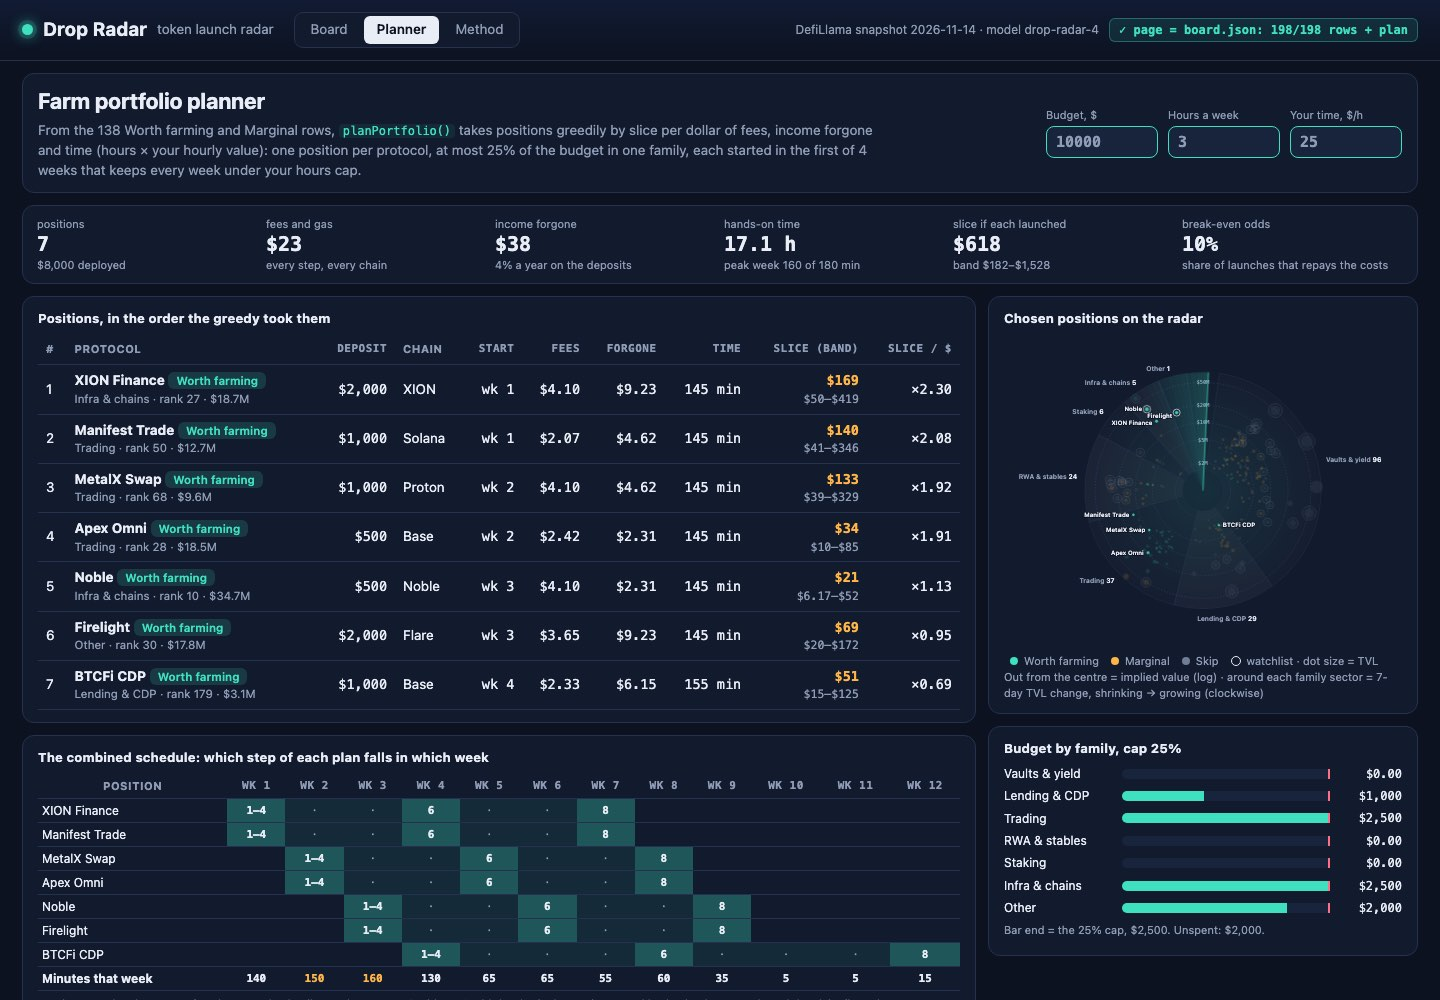
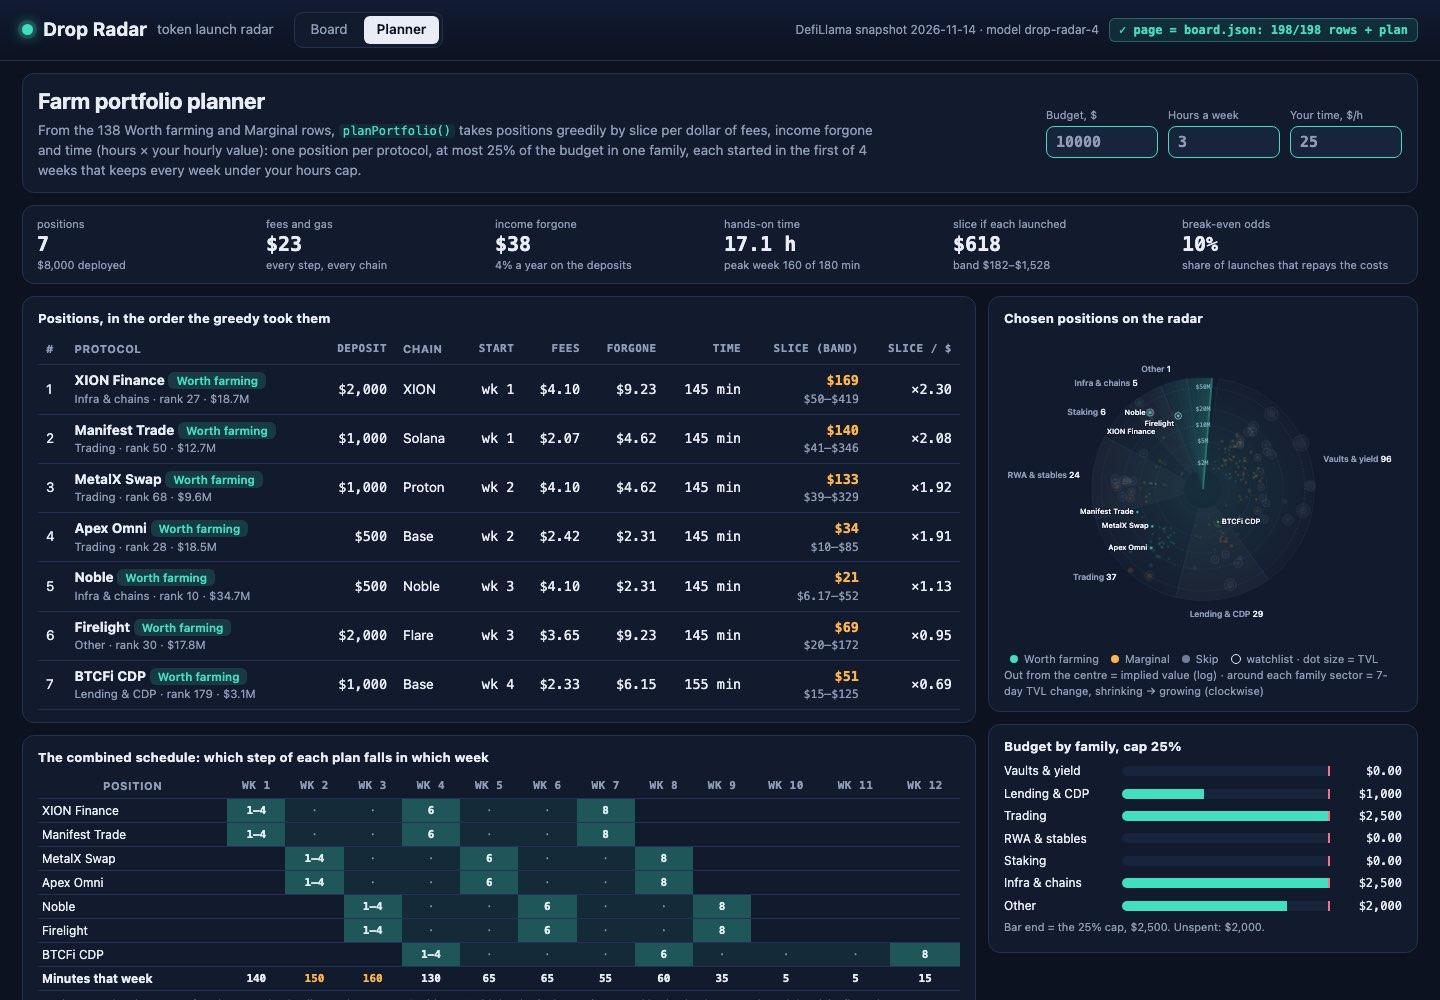
v4 polish: radar labels never collide, peers drawn from the family's middle multiples, whole source inside the dossier cap

diff --git a/dashboard/radar.js b/dashboard/radar.js
@@ -1,7 +1,5 @@
-// Drop Radar page: recomputes the whole board in the browser with model.js (DropRadar.buildRadar on the
-// sealed snapshot in ../data.js), checks it against board.json row by row, and renders the board with its
-// radar sweep, a detail view per protocol, the farm portfolio planner and the method. State lives in the
-// URL hash, so every view is linkable.
+// Drop Radar page: reruns model.js on the sealed snapshot (../data.js), checks it against board.json row by
+// row, and renders the board, its radar sweep, a detail view per protocol and the planner. State: the URL hash.
 (function () {
   'use strict';
   var M = window.DropRadar, R = M.buildRadar(window.SNAPSHOT), B = window.BOARD;
@@ -45,7 +43,7 @@
     app.querySelectorAll('[data-fam]').forEach(function (el) { el.onclick = function () { go({ view: 'board', fam: S.fam === el.dataset.fam ? '' : el.dataset.fam }); }; });
   }
 
-  // ------------------------------------------------------------ the radar sweep
+  // ---- the radar sweep
   // Angle: family sector (sized by its row count); inside a sector, the 7-day TVL change, shrinking to growing.
   // Radius: log implied value. Dot area: TVL. Colour: farm verdict. Ring: on the watchlist.
   function sweep(hl) {
@@ -55,15 +53,17 @@
     var rad = function (v) { return r0 + (L(v) - L(vmin)) / (L(vmax) - L(vmin)) * (r1 - r0); };
     var pt = function (a, rr) { return (c + rr * Math.sin(a)).toFixed(1) + ',' + (c - rr * Math.cos(a)).toFixed(1); };
     var fams = M.FAMILIES.map(function (f) { return { f: f, n: R.rows.filter(function (r) { return r.family === f; }).length }; }).filter(function (x) { return x.n; });
-    var tot = fams.reduce(function (s, x) { return s + x.n + 10; }, 0), a = gap / 2, sec = {};
-    var s = '<svg viewBox="-70 -6 ' + (W + 140) + ' ' + (W + 12) + '" class="sweep" role="img" aria-label="Radar of every protocol that records no token"><defs><radialGradient id="glow"><stop offset="0" stop-color="#3fe0c0" stop-opacity=".10"/><stop offset="1" stop-color="#3fe0c0" stop-opacity="0"/></radialGradient></defs>';
+    var tot = fams.reduce(function (s, x) { return s + x.n + 10; }, 0), a = gap / 2, sec = {}, famBox = [];
+    var s = '<svg viewBox="-90 -20 ' + (W + 180) + ' ' + (W + 40) + '" class="sweep" role="img" aria-label="Radar of every protocol that records no token"><defs><radialGradient id="glow"><stop offset="0" stop-color="#3fe0c0" stop-opacity=".10"/><stop offset="1" stop-color="#3fe0c0" stop-opacity="0"/></radialGradient></defs>';
     s += '<circle cx="' + c + '" cy="' + c + '" r="' + r1 + '" fill="url(#glow)"/>';
     fams.forEach(function (x, i) {
       var span = (2 * Math.PI - gap) * (x.n + 10) / tot, a1 = a + span, mid = a + span / 2;
       sec[x.f] = [a, a1];
       s += '<path class="sec' + (i % 2 ? ' alt' : '') + (S.fam === x.f ? ' on' : '') + '" d="M' + pt(a, r0) + 'L' + pt(a, r1) + 'A' + r1 + ',' + r1 + ' 0 ' + (span > Math.PI ? 1 : 0) + ' 1 ' + pt(a1, r1) + 'L' + pt(a1, r0) + 'A' + r0 + ',' + r0 + ' 0 ' + (span > Math.PI ? 1 : 0) + ' 0 ' + pt(a, r0) + 'Z"/>';
-      var lx = c + (r1 + 14) * Math.sin(mid), ly = c - (r1 + 14) * Math.cos(mid), anc = Math.abs(Math.sin(mid)) < 0.2 ? 'middle' : Math.sin(mid) > 0 ? 'start' : 'end';
-      s += '<text class="fam" data-fam="' + esc(x.f) + '" x="' + lx.toFixed(1) + '" y="' + (ly + 4 + (Math.cos(mid) < -0.9 ? 6 : 0)).toFixed(1) + '" text-anchor="' + anc + '">' + esc(x.f) + ' <tspan>' + x.n + '</tspan></text>';
+      var lx = c + (r1 + 22) * Math.sin(mid), ly = c - (r1 + 22) * Math.cos(mid), anc = Math.abs(Math.sin(mid)) < 0.2 ? 'middle' : Math.sin(mid) > 0 ? 'start' : 'end';
+      var fy = ly + 4 + (Math.cos(mid) < -0.9 ? 6 : 0), fw = (x.f.length + 4) * 8.2;
+      famBox.push({ x0: anc === 'start' ? lx : anc === 'end' ? lx - fw : lx - fw / 2, x1: anc === 'start' ? lx + fw : anc === 'end' ? lx : lx + fw / 2, y: fy });
+      s += '<text class="fam" data-fam="' + esc(x.f) + '" x="' + lx.toFixed(1) + '" y="' + fy.toFixed(1) + '" text-anchor="' + anc + '">' + esc(x.f) + ' <tspan>' + x.n + '</tspan></text>';
       a = a1;
     });
     [2e6, 5e6, 1e7, 2e7, 5e7].forEach(function (v) {
@@ -83,7 +83,12 @@
     });
     labels.sort(function (p, q) { return p.y - q.y; }).forEach(function (l, i, all) {
       var right = l.x >= c, ty = l.y + 3.5;
-      for (var j = 0; j < i; j++) if (Math.abs(all[j].ty - ty) < 11 && (all[j].x >= c) === right) ty = all[j].ty + 11;
+      var w = l.r.name.length * 7.5, lx0 = right ? l.x + l.d + 4 : l.x - l.d - 4 - w, lx1 = lx0 + w;
+      var hit = function (y) {
+        for (var j = 0; j < i; j++) if ((all[j].x >= c) === right && Math.abs(all[j].ty - y) < 14) return true;
+        return famBox.some(function (f) { return Math.abs(f.y - y) < 15 && lx1 > f.x0 && lx0 < f.x1; });
+      };
+      for (var k = 1; hit(ty) && k < 40; k++) ty = l.y + 3.5 + (k % 2 ? 1 : -1) * Math.ceil(k / 2) * 14;
       l.ty = ty;
       s += '<text class="lab" x="' + (l.x + (right ? l.d + 4 : -l.d - 4)).toFixed(1) + '" y="' + ty.toFixed(1) + '" text-anchor="' + (right ? 'start' : 'end') + '">' + (hl ? '' : l.r.rank + ' ') + esc(l.r.name.length > 18 ? l.r.name.slice(0, 17) + '…' : l.r.name) + '</text>';
     });
@@ -91,7 +96,7 @@
       '<div class="legend">Out from the centre = implied value (log) &middot; around each family sector = 7-day TVL change, shrinking &rarr; growing (clockwise)</div>';
   }
 
-  // ------------------------------------------------------------ the board
+  // ---- the board
   function kpis() {
     var w = R.rows.filter(function (r) { return r.watch; }).length, worth = R.rows.filter(function (r) { return r.plan.verdict === 'Worth farming'; }).length;
     var o = R.oos;
@@ -109,7 +114,7 @@
     var c = R.fit.curve, o = R.oos;
     return '<section class="card"><h3>How a value is built <code>buildRadar()</code></h3><ol class="how">' +
       '<li><b class="k-tvl">Size curve</b> on <b>TVL</b> <code>fitCurve()</code>: log10 value = ' + c.a.toFixed(2) + ' + ' + c.b.toFixed(3) + ' &times; log10(TVL / $100M), least squares on the ' + R.traded.length + ' protocols whose token trades</li>' +
-      '<li><b>&times; family tilt</b> <code>fitTilts()</code>: median residual of the family\'s traded peers, shrunk with ' + R.cfg.shrink_k + ' pseudo-peers</li>' +
+      '<li><b>&times; family tilt</b> <code>fitTilts()</code>: median residual of the family\'s traded peers, shrunk with ' + R.cfg.shrink_k + ' pseudo-peers: ' + M.FAMILIES.map(function (f) { return esc(f) + ' &times;' + Math.pow(10, R.fit.tilts[f].log).toFixed(2) + ' (' + R.fit.tilts[f].peers + ')'; }).join(', ') + '</li>' +
       '<li><b class="k-g">&times; momentum</b> on <b>7-day growth</b>: 1 + ' + R.cfg.growth_weight + ' &times; 7-day TVL change, held to ' + R.cfg.growth_lo + '%..+' + R.cfg.growth_hi + '%</li>' +
       '<li><b class="k-d">&times; seasoning</b> on <b>days with no token</b>: ' + R.cfg.season_lo + ' + ' + R.cfg.season_span + ' &times; days tracked / ' + R.cfg.season_days + ' (unknown: ' + R.cfg.season_unknown + ')</li></ol>' +
       '<p class="mute">Out of sample <code>outOfSample()</code>: each of the ' + o.n + ' traded tokens refit without itself misses by a median <b>&times;' + o.median_miss.toFixed(2) + '</b> (one flat mcap/TVL multiple: &times;' + o.flat_miss.toFixed(2) + '); ' + Math.round(o.within3 * 100) + '% within 3&times;. Band: P25&ndash;P75 of residuals; rank range: P10&ndash;P90 of ' + R.cfg.boot + ' seeded refits.</p></section>';
@@ -190,7 +195,7 @@
     app.querySelector('#anch').onchange = function (e) { go({ anchors: e.target.checked ? '1' : '' }); };
   }
 
-  // ------------------------------------------------------------ the portfolio planner
+  // ---- the portfolio planner
   var span = function (a) { return a.length > 1 ? a[0] + '&ndash;' + a[a.length - 1] : String(a[0]); };
 
   function planner() {
@@ -222,7 +227,7 @@
     app.querySelectorAll('[data-in]').forEach(function (el) { el.onchange = function () { var x = {}; x[el.dataset.in] = el.value > 0 ? String(+el.value) : ''; go(x); }; });
   }
 
-  // ------------------------------------------------------------ one protocol
+  // ---- one protocol
   function timeline(plan) {
     var W = 540, days = plan.weeks * 7, x = function (d) { return 22 + d / days * (W - 50); }, last = -1e9;
     var s = '<svg viewBox="0 0 ' + W + ' 66" class="tl"><line x1="22" x2="' + (W - 28) + '" y1="18" y2="18"/>';
@@ -255,34 +260,10 @@
       '<ul class="rules"><li>One wallet, your own funds; never split one position across wallets.</li><li>Claim only through the domain bookmarked on day 0.</li><li>A launch is not promised: this is cost arithmetic and the model\'s claim.</li></ul></section></div>';
   }
 
-  // ------------------------------------------------------------ method
-  function scatter() {
-    var W = 330, H = 170, x0 = 6, x1 = 11, y0 = 3, y1 = 11;
-    var px = function (v) { return 30 + (L(v) - x0) / (x1 - x0) * (W - 40); };
-    var py = function (v) { return H - 20 - (L(v) - y0) / (y1 - y0) * (H - 30); };
-    var s = '<svg viewBox="0 0 ' + W + ' ' + H + '" role="img" aria-label="Market cap or implied value against TVL">';
-    [7, 8, 9, 10].forEach(function (e) { var x = px(Math.pow(10, e)); s += '<line class="grid" x1="' + x + '" x2="' + x + '" y1="8" y2="' + (H - 20) + '"/><text class="ax" x="' + x + '" y="' + (H - 6) + '">' + usd(Math.pow(10, e)) + '</text>'; });
-    [5, 7, 9].forEach(function (e) { var y = py(Math.pow(10, e)); s += '<line class="grid" x1="30" x2="' + (W - 10) + '" y1="' + y + '" y2="' + y + '"/><text class="ax" x="2" y="' + (y + 3) + '">' + usd(Math.pow(10, e)) + '</text>'; });
-    R.traded.forEach(function (p) { s += '<circle class="tr" cx="' + px(p.tvl).toFixed(1) + '" cy="' + py(Math.max(p.mcap, 1e3)).toFixed(1) + '" r="2.2"/>'; });
-    R.rows.forEach(function (r) { s += '<rect class="pre" x="' + (px(r.tvl) - 2).toFixed(1) + '" y="' + (py(r.implied) - 2).toFixed(1) + '" width="4" height="4"/>'; });
-    var c = R.fit.curve, f = function (t) { return Math.pow(10, c.a + c.b * L(t / 1e8)); };
-    s += '<line class="fitl" x1="' + px(1e7) + '" y1="' + py(f(1e7)) + '" x2="' + px(1e11) + '" y2="' + py(f(1e11)) + '"/></svg>';
-    return s + '<div class="legend"><i class="dot-tr"></i> trades (mcap) <i class="dot-pre"></i> records no token, at implied value <i class="dot-fit"></i> fitted size curve</div>';
-  }
-
-  function method() {
-    var t = R.fit.tilts;
-    app.innerHTML = '<section class="cards">' + howCard() + '<div class="card chart"><h3>Market cap or implied value vs TVL</h3>' + scatter() + '</div>' +
-      '<div class="card"><h3>Family tilts <code>fitTilts()</code></h3><table class="mini"><thead><tr><th>Family</th><th class="num">Traded peers</th><th class="num">Tilt</th><th class="num">Ranked</th></tr></thead><tbody>' +
-      M.FAMILIES.map(function (fm) { return '<tr><td>' + esc(fm) + '</td><td class="num">' + t[fm].peers + '</td><td class="num">&times;' + Math.pow(10, t[fm].log).toFixed(2) + '</td><td class="num">' + R.rows.filter(function (r) { return r.family === fm; }).length + '</td></tr>'; }).join('') + '</tbody></table></div></section>' +
-      '<section class="card"><h3>Model ' + esc(R.cfg.version) + ': one function, every row</h3><p>This page ran <code>DropRadar.buildRadar()</code> from model.js on the sealed snapshot and matched board.json row by row (' + matched + '/' + B.rows.length + '), and <code>planPortfolio()</code> against its default plan. No protocol name appears in the model. The ' + R.traded.length + ' protocols with a market cap price the curve and are never ranked; below the floor the house rule (all but the TVL floor) sets aside ' + R.set_aside + ' wrapped, staked, bridged and exchange products.</p>' +
-      '<p><b>Farm verdict.</b> Worth farming when break-even odds &le; ' + Math.round(R.cfg.worth * 100) + '%, Marginal &le; ' + Math.round(R.cfg.marginal * 100) + '%, else Skip. Costs: a per-chain gas table, $1 per bridge leg, ' + Math.round(R.cfg.tbill * 100) + '% a year forgone; deposit $2,000 ($1,000 under $20M TVL). <b>Portfolio.</b> Deposits scale with the budget, capped at ' + M.PF.tvl_cap * 100 + '% of a protocol\'s TVL; a part-filled position is kept only while its own break-even odds stay &le; ' + Math.round(R.cfg.marginal * 100) + '%.</p></section>';
-  }
-
   function render() {
     document.querySelectorAll('.tabs button').forEach(function (b) { b.setAttribute('aria-selected', String(b.dataset.view === S.view && !S.p)); b.onclick = function () { go({ view: b.dataset.view, p: '' }); }; });
     var r = S.p && bySlug[S.p];
-    if (r) detail(r); else if (S.view === 'method') method(); else if (S.view === 'plan') planner(); else board();
+    if (r) detail(r); else if (S.view === 'plan') planner(); else board();
     var back = app.querySelector('.back'); if (back) back.onclick = function (e) { e.preventDefault(); go({ p: '' }); };
     window.scrollTo(0, 0);
   }

diff --git a/dashboard/style.css b/dashboard/style.css
@@ -35,20 +35,15 @@ main{padding:12px 22px 18px}
 .card h3{margin:0 0 7px;font-size:13px;letter-spacing:.2px}
 .card p{margin:5px 0}
 ol.how{margin:0;padding-left:18px} ol.how li{margin:3px 0}
-.chart svg{width:100%;height:auto;display:block}
-svg .grid{stroke:var(--line);stroke-width:.6} svg .ax{fill:var(--mute);font:8px var(--mono)}
-svg .tr{fill:#7d8aa3;opacity:.75} svg .pre{fill:var(--amber)} svg .fitl{stroke:var(--teal);stroke-width:1.6}
 .legend{color:var(--mute);font-size:11px;display:flex;gap:6px;align-items:center;flex-wrap:wrap}
 .legend i{display:inline-block;width:8px;height:8px;border-radius:50%;margin-left:6px}
 .legend i.v-worth{background:var(--teal)} .legend i.v-marg{background:var(--amber)} .legend i.v-skip{background:#6f7d96} .legend i.ringk{border:1.5px solid var(--text);width:10px;height:10px}
-.dot-tr{background:#7d8aa3} .dot-pre{background:var(--amber);border-radius:1px !important} .dot-fit{background:var(--teal);height:2px !important;width:14px !important;border-radius:0 !important}
 .filters{display:flex;flex-wrap:wrap;gap:7px;align-items:center;margin:6px 0}
 .chip{border:1px solid var(--line);background:var(--panel);border-radius:999px;padding:4px 11px;cursor:pointer;color:var(--mute);font-size:12.5px}
 .chip[aria-pressed="true"]{background:var(--text);color:var(--ink);border-color:var(--text);font-weight:600}
 .filters input[type=search],.filters select{background:var(--panel);border:1px solid var(--line);border-radius:8px;padding:4px 10px}
 .filters input[type=search]{width:190px}
 .tog{color:var(--mute);font-size:12.5px}
-.sep{width:1px;height:20px;background:var(--line);margin:0 4px}
 .count{margin:6px 0 8px}
 table{width:100%;border-collapse:collapse}
 th{text-align:left;color:var(--mute);font-size:11px;text-transform:uppercase;letter-spacing:.5px;padding:7px 8px;border-bottom:1px solid var(--text);cursor:pointer;white-space:nowrap}
@@ -103,15 +98,15 @@ tr.grp th:nth-child(2){border-bottom:2px solid var(--line)}
 svg.sweep{width:100%;height:auto;display:block;margin:-4px 0 2px}
 .sweep .sec{fill:rgba(255,255,255,.015);stroke:var(--line);stroke-width:.8} .sweep .sec.alt{fill:rgba(255,255,255,.04)} .sweep .sec.on{fill:rgba(63,224,192,.12)}
 .sweep .ring{fill:none;stroke:#33456a;stroke-dasharray:2 3}
-.sweep .rl{fill:var(--mute);font:9px var(--mono);text-anchor:middle}
-.sweep .fam{fill:var(--mute);font:600 11px var(--sans);cursor:pointer} .sweep .fam tspan{fill:var(--text)}
+.sweep .rl{fill:var(--mute);font:11px var(--mono);text-anchor:middle}
+.sweep .fam{fill:var(--mute);font:600 15px var(--sans);cursor:pointer} .sweep .fam tspan{fill:var(--text)}
 .beam{transform-origin:260px 260px;animation:spin 9s linear infinite}
 .beam path{fill:var(--teal)} .beam line{stroke:var(--teal);stroke-width:1.2}
 @keyframes spin{to{transform:rotate(360deg)} }
 .dot{cursor:pointer} .dot.v-skip{color:#6f7d96} .dot.dim{opacity:.16}
 .dot circle{fill:currentColor;fill-opacity:.85;stroke:var(--ink);stroke-width:.6} .dot:hover circle{stroke:#fff}
 .dot .wl{fill:none;stroke:var(--text);stroke-width:1.1}
-.sweep .lab{fill:var(--text);font:600 10px var(--sans);paint-order:stroke;stroke:var(--ink);stroke-width:3px;pointer-events:none}
+.sweep .lab{fill:var(--text);font:600 13px var(--sans);paint-order:stroke;stroke:var(--ink);stroke-width:3px;pointer-events:none}
 .ptot{display:grid;grid-template-columns:repeat(3, 1fr);gap:8px;margin:6px 0}
 .ptot span,.ptot small,.totals small{display:block;color:var(--mute);font-size:11px} .ptot b{font:700 17px var(--mono)}
 ol.picks{margin:6px 0;padding:0;list-style:none}

diff --git a/dashboard/model.js b/dashboard/model.js
@@ -101,14 +101,14 @@
     'Trading': { verb: 'Deposit {D} on {N} on {C} and trade it in 5 small round trips at 1x (fees under 0.3% of the deposit)', tx: 6, weeks: 6, mid: 'make 3 more round trips and, if the app has one, add {Q} to its liquidity vault' },
     'RWA & stables': { verb: 'Subscribe {D} to {N}\'s main product on {C} after checking its minimum ticket and redemption window', tx: 2, weeks: 8, mid: 're-read the product page and confirm the position accrues; redeem nothing early' },
     'Staking': { verb: 'Stake {D} through {N}\'s own interface on {C}, choosing the option with no lock-up or the shortest one', tx: 2, weeks: 8, mid: 'claim or restake any reward once, a second dated action' },
-    'Infra & chains': { verb: 'Bridge {D} onto {N} ({C}) and use 3 of its own apps: a swap, a lend and a liquidity position', tx: 6, weeks: 6, mid: 'repeat one swap and one deposit so activity spans more than one week' },
+    'Infra & chains': { verb: 'Bridge {D} onto {N}{OC} and use 3 of its own apps: a swap, a lend and a liquidity position', tx: 6, weeks: 6, mid: 'repeat one swap and one deposit so activity spans more than one week' },
     'Other': { verb: 'Use {N}\'s core product on {C} with {D}: one deposit or action now', tx: 3, weeks: 6, mid: 'repeat the core action once so the address shows two dates' },
   };
 
   function farmPlan(r) {
     var D = r.tvl < 20e6 ? 1000 : 2000;
     var cc = cheapestChain(r.chains), g = cc.gas, pb = PLAY[r.family], W = pb.weeks;
-    var fill = function (s) { return s.replace(/\{D\}/g, money(D)).replace(/\{Q\}/g, money(D / 4)).replace(/\{N\}/g, r.name).replace(/\{C\}/g, cc.chain); };
+    var fill = function (s) { return s.replace(/\{OC\}/g, cc.chain === r.name ? '' : ' (' + cc.chain + ')').replace(/\{D\}/g, money(D)).replace(/\{Q\}/g, money(D / 4)).replace(/\{N\}/g, r.name).replace(/\{C\}/g, cc.chain); };
     var stop = Math.round(r.tvl * (1 - Math.max(0.1, Math.abs(r.ch7 || 0) * 2 / 100)));
     var kyc = r.family === 'RWA & stables', d1 = kyc ? 3 : 1;
     // at: the day a step falls on (weekly: every held week; neither: it fires only on an event).
@@ -230,7 +230,9 @@
     rows.forEach(function (r, i) { r.rlo = Math.round(quantile(seen[i], 0.1)); r.rhi = Math.round(quantile(seen[i], 0.9)); r.plan = farmPlan(r); });
 
     var peersOf = function (r) {
-      return pts.filter(function (p) { return p.fam === r.family; })
+      // nearest by TVL among the family's peers inside the middle of its multiples, so one outlier never reads as the evidence
+      var ms = pts.filter(function (p) { return p.fam === r.family; }).map(function (p) { return p.mcap / p.tvl; }), lo = quantile(ms, 0.1), hi = quantile(ms, 0.9);
+      return pts.filter(function (p) { return p.fam === r.family && p.mcap / p.tvl >= lo && p.mcap / p.tvl <= hi; })
         .sort(function (a, b) { return Math.abs(a.x - L(r.tvl / 1e8)) - Math.abs(b.x - L(r.tvl / 1e8)); }).slice(0, 3)
         .map(function (p) { return { name: p.name, symbol: p.symbol, tvl: p.tvl, mcap: p.mcap }; });
     };

diff --git a/dashboard/index.html b/dashboard/index.html
@@ -9,7 +9,7 @@
 <body>
 <header class="top">
   <div class="brand"><span class="dot" aria-hidden="true"></span><b>Drop Radar</b><span class="sub">token launch radar</span>
-    <nav class="tabs" role="tablist"><button role="tab" data-view="board">Board</button><button role="tab" data-view="plan">Planner</button><button role="tab" data-view="method">Method</button></nav></div>
+    <nav class="tabs" role="tablist"><button role="tab" data-view="board">Board</button><button role="tab" data-view="plan">Planner</button></nav></div>
   <div class="stamp" id="stamp"></div>
 </header>
 <main id="app" tabindex="-1"></main>
